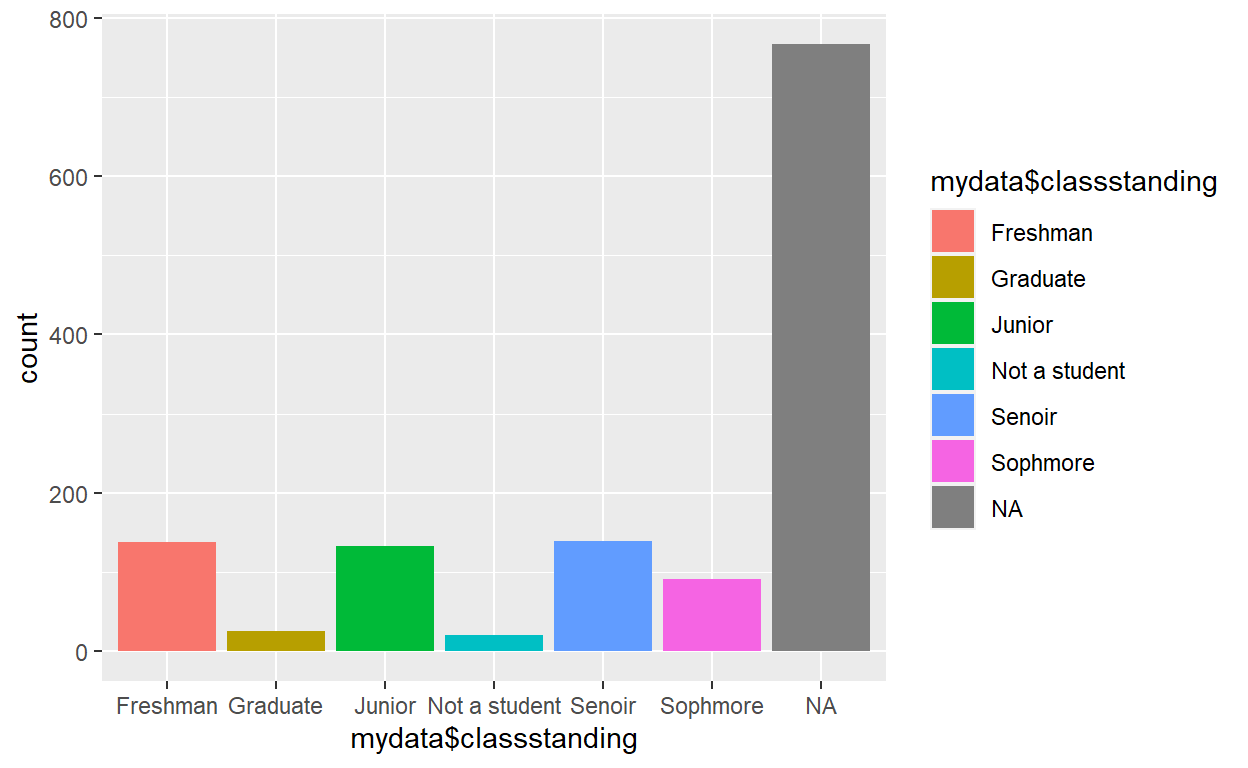
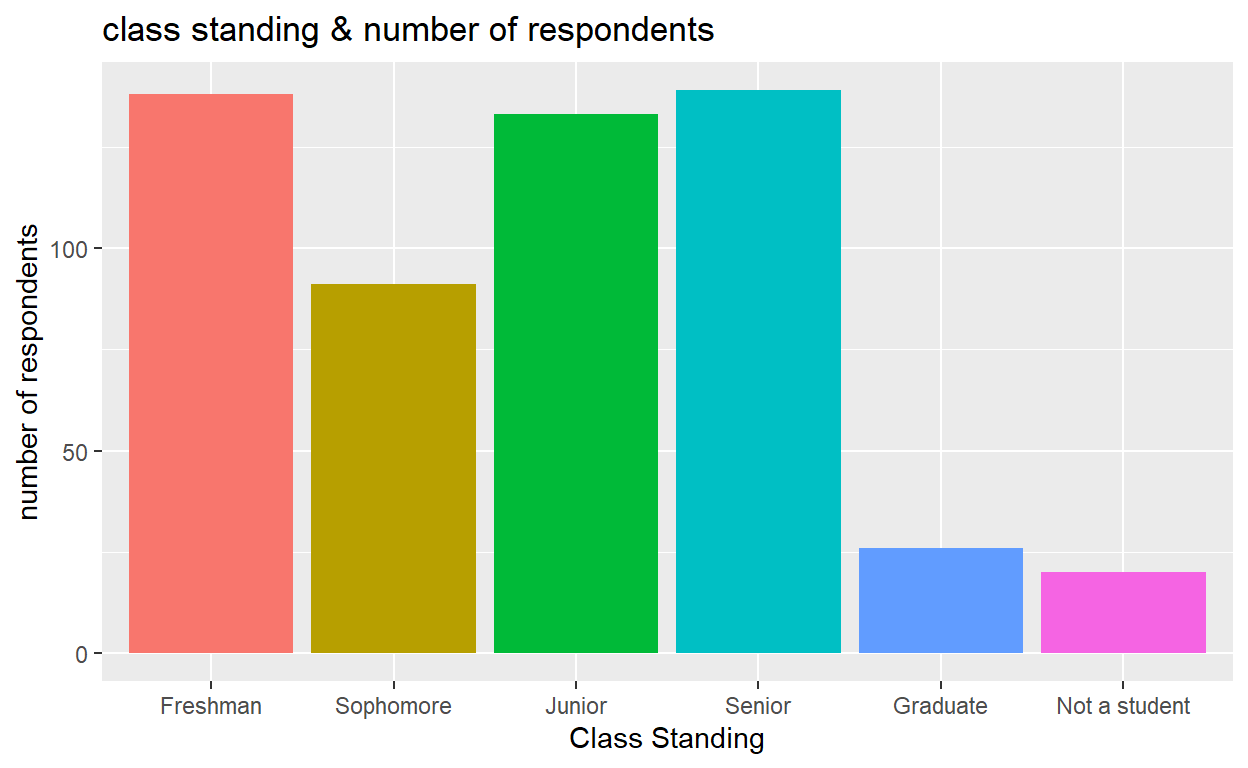
3rd commit

diff --git a/_posts/2021-04-18-cfhl-analysis/cfhl-analysis.html b/_posts/2021-04-18-cfhl-analysis/cfhl-analysis.html
@@ -110,12 +110,12 @@ code span.wa { color: #5e5e5e; font-style: italic; } /* Warning */
   <!--radix_placeholder_rmarkdown_metadata-->
 
   <script type="text/json" id="radix-rmarkdown-metadata">
-  {"type":"list","attributes":{"names":{"type":"character","attributes":{},"value":["title","description","author","date","output"]}},"value":[{"type":"character","attributes":{},"value":["CFHL-Analysis"]},{"type":"character","attributes":{},"value":["Exploratory Data Analysis on CFHL project.\n"]},{"type":"list","attributes":{},"value":[{"type":"list","attributes":{"names":{"type":"character","attributes":{},"value":["name","url"]}},"value":[{"type":"character","attributes":{},"value":["Demetrio Munoz"]},{"type":"list","attributes":{"names":{"type":"character","attributes":{},"value":[]}},"value":[]}]}]},{"type":"character","attributes":{},"value":["04-18-2021"]},{"type":"list","attributes":{"names":{"type":"character","attributes":{},"value":["distill::distill_article"]}},"value":[{"type":"list","attributes":{"names":{"type":"character","attributes":{},"value":["self_contained"]}},"value":[{"type":"logical","attributes":{},"value":[false]}]}]}]}
+  {"type":"list","attributes":{"names":{"type":"character","attributes":{},"value":["title","description","author","date","output"]}},"value":[{"type":"character","attributes":{},"value":["CFHL-Analysis"]},{"type":"character","attributes":{},"value":["Exploratory Data Analysis on CFHL project.\n"]},{"type":"list","attributes":{},"value":[{"type":"list","attributes":{"names":{"type":"character","attributes":{},"value":["name"]}},"value":[{"type":"character","attributes":{},"value":["Demetrio Munoz"]}]}]},{"type":"character","attributes":{},"value":["04-18-2021"]},{"type":"list","attributes":{"names":{"type":"character","attributes":{},"value":["distill::distill_article"]}},"value":[{"type":"list","attributes":{"names":{"type":"character","attributes":{},"value":["self_contained"]}},"value":[{"type":"logical","attributes":{},"value":[false]}]}]}]}
   </script>
   <!--/radix_placeholder_rmarkdown_metadata-->
   
   <script type="text/json" id="radix-resource-manifest">
-  {"type":"character","attributes":{},"value":["cfhl-analysis_files/anchor-4.2.2/anchor.min.js","cfhl-analysis_files/bowser-1.9.3/bowser.min.js","cfhl-analysis_files/distill-2.2.21/template.v2.js","cfhl-analysis_files/figure-html5/unnamed-chunk-4-1.png","cfhl-analysis_files/figure-html5/unnamed-chunk-5-1.png","cfhl-analysis_files/figure-html5/unnamed-chunk-6-1.png","cfhl-analysis_files/header-attrs-2.7/header-attrs.js","cfhl-analysis_files/jquery-1.11.3/jquery.min.js","cfhl-analysis_files/popper-2.6.0/popper.min.js","cfhl-analysis_files/tippy-6.2.7/tippy-bundle.umd.min.js","cfhl-analysis_files/tippy-6.2.7/tippy-light-border.css","cfhl-analysis_files/tippy-6.2.7/tippy.css","cfhl-analysis_files/tippy-6.2.7/tippy.umd.min.js","cfhl-analysis_files/webcomponents-2.0.0/webcomponents.js"]}
+  {"type":"character","attributes":{},"value":["cfhl-analysis_files/anchor-4.2.2/anchor.min.js","cfhl-analysis_files/bowser-1.9.3/bowser.min.js","cfhl-analysis_files/distill-2.2.21/template.v2.js","cfhl-analysis_files/figure-html5/unnamed-chunk-4-1.png","cfhl-analysis_files/figure-html5/unnamed-chunk-5-1.png","cfhl-analysis_files/figure-html5/unnamed-chunk-6-1.png","cfhl-analysis_files/figure-html5/unnamed-chunk-9-1.png","cfhl-analysis_files/header-attrs-2.7/header-attrs.js","cfhl-analysis_files/jquery-1.11.3/jquery.min.js","cfhl-analysis_files/popper-2.6.0/popper.min.js","cfhl-analysis_files/tippy-6.2.7/tippy-bundle.umd.min.js","cfhl-analysis_files/tippy-6.2.7/tippy-light-border.css","cfhl-analysis_files/tippy-6.2.7/tippy.css","cfhl-analysis_files/tippy-6.2.7/tippy.umd.min.js","cfhl-analysis_files/webcomponents-2.0.0/webcomponents.js"]}
   </script>
   <!--radix_placeholder_navigation_in_header-->
   <!--/radix_placeholder_navigation_in_header-->
@@ -1454,7 +1454,7 @@ code span.wa { color: #5e5e5e; font-style: italic; } /* Warning */
 <!--radix_placeholder_front_matter-->
 
 <script id="distill-front-matter" type="text/json">
-{"title":"CFHL-Analysis","description":"Exploratory Data Analysis on CFHL project.","authors":[{"author":"Demetrio Munoz","authorURL":{},"affiliation":"&nbsp;","affiliationURL":"#","orcidID":""}],"publishedDate":"2021-04-18T00:00:00.000-07:00","citationText":"Munoz, 2021"}
+{"title":"CFHL-Analysis","description":"Exploratory Data Analysis on CFHL project.","authors":[{"author":"Demetrio Munoz","authorURL":"#","affiliation":"&nbsp;","affiliationURL":"#","orcidID":""}],"publishedDate":"2021-04-18T00:00:00.000-07:00","citationText":"Munoz, 2021"}
 </script>
 
 <!--/radix_placeholder_front_matter-->
@@ -1471,67 +1471,86 @@ code span.wa { color: #5e5e5e; font-style: italic; } /* Warning */
 </div>
 
 <div class="d-byline">
-  Demetrio Munoz true 
+  
+  Demetrio Munoz
   
 <br/>04-18-2021
 </div>
 
 <div class="d-article">
-<h1 id="install-pre-requiste-packages">Install pre-requiste packages</h1>
-<pre><code>install.packages(&quot;stats&quot;)
-install.packages(&quot;dplyr&quot;)
-install.packages(&quot;lattice&quot;)</code></pre>
-<h1 id="load-required-libraries">Load Required Libraries</h1>
+<h1 id="load-required-libraries">Load required libraries</h1>
 <div class="layout-chunk" data-layout="l-body">
 
 </div>
-<p>Loading data, loading data onto mydata object Note the Survery data needs to be imported into R-Studio</p>
+<h1 id="loading-data-loading-data-onto-mydata-object">Loading data, loading data onto mydata object</h1>
 <div class="layout-chunk" data-layout="l-body">
 
 </div>
 <h1 id="introduction">Introduction</h1>
-<p>The information I am going to do an EDA on comes from a project called CFHL, conducted by the CHC data analytic team from California state university Chico .In this EDA I will be working with the data set called survey_raw and I will be looking at the survey data responses from the participants who took the survey. The data within the survey is based on classes that were offered at different california state universities. The data within this data set has been gathered for about 1 or 2 years.</p>
+<p>The data in this Exploratory Analysis comes from a project called CalFresh Healthy Living (CFHL), conducted by the Center for Healthy Communities (CHC) Research and Evaluation team at California State University Chico. Data collection from a self report survey started last summer and is ongoing. The data survey contains information two type of nutrition nutrition classes. One of the type of nutrition class was single session classes, the other type of nutrition class is series based classes. These two type of nutrition classes had different questions to collect different kind of information from the participants. For one time classes the questions asked about how confident the student is in their ability to recall the knowledge and skills that the student learned in the class. Classes mostly asked about the frequency with which the student are particular foods/did specific health behaviors. The series classes also, asked about certain questions to get feedback on the content of the class to test how much did the student learned in the series classes. The data that was collected pre and post series classes only, will show is the course contributes to some changes in knowledge or health behavior. The other interesting data that was collected from both nutrition classes was demographics, food security,education, eating/nutrition knowledge and behaviors, food insecurity, and feedback on the class. This report examines the demographic of students, specifically their class standing, and the number of classes attended to see if there is a relationship between them.</p>
 <h1 id="data-summarization">Data Summarization</h1>
-<p>Univariate Description:1st, I’m going to analyze the difference between class_standings who participated in the survey.</p>
+<p>First, I’m going examine the class standings who participated in the survey.</p>
 <div class="layout-chunk" data-layout="l-body">
 <pre><code>
-     Freshman      Graduate        Junior Not a student        Senoir 
-          138            26           133            20           139 
-     Sophmore 
-           91 </code></pre>
-<pre><code>[1] &quot;factor&quot;</code></pre>
+     Freshman     Sophomore        Junior        Senior      Graduate 
+          138            91           133           139            26 
+Not a student 
+           20 </code></pre>
 </div>
 <p>Based on this data table the top three class standings that participated in this survey were Senoir at 139 participants, Freshman at 138, and Junior at 133 participants</p>
 <h1 id="graph-displaying-top-3-class-standing-participation">Graph displaying top 3 class standing participation</h1>
 <div class="layout-chunk" data-layout="l-body">
 <p><img src="cfhl-analysis_files/figure-html5/unnamed-chunk-4-1.png" width="624" /></p>
 </div>
-<p>This bar graph Vizualizes what the data table showed about the top three mydata$classstanding participation participation .</p>
-<h1 id="ndim-going-to-analyze-the-number-of-participants-in-quant_classes">2nd,I’m going to analyze the number of participants in quant_classes</h1>
-<p>The second data set I am going to look into is about quant_classes. The quant_classes has 1-6 choices so the participant can pick if they participate in 1 quant classes- 6 quant classes.</p>
+<p>This bar graph displays the class standing of the students who participated in the survey. This graph illustrates that the top three class standing that took a part of this survey came from Freshman, Junior, Senior,the two lowest class standing that participated in this survey were Graduate, Not a Student.</p>
+<h1 id="second-i-am-going-to-explore-how-many-classes-in-the-series-students-attended.">Second, I am going to explore how many classes in the series students attended.</h1>
+<p>The second measure I am going to look into is about number of classes attended. The question has 1-6 choices so the participant can pick if they participate in 1 number of classes through 6 number of classes.</p>
 <div class="layout-chunk" data-layout="l-body">
 <pre><code>
  1  2  3  4  5  6 
 45 12 85 31  9  6 </code></pre>
 </div>
-<p>This table shows that 45 people attended at least one quant_class,took the survey. The quant_class that was taken the most was 3 quant_classes with a total of 85 people. The third most taken quant_classes was 4 with a total of 31 participants.</p>
-<h1 id="this-is-a-side-by-side-graph-showing-the-relation-between-quant_classesclass-standing.">This is a side by side graph showing the relation between quant_classes,class standing.</h1>
-<p>This bar graph shows the distribution of quant classes, class standing is fill to shows the amount of the participants class standing. Based on this the graph one quant class had the most variety of class standing participants, contained the the most senior class standing participants.</p>
+<p>This table shows that that every number of classes had more than 6 participants. Minimum is 6 participants,the participants went to only 6 classes. The number of classes that was taken the most was number 3 with a total of 85 participants saying they went to only 3 classes. The third most taken number of classes was 1 number of classes with a total of 45 participants. The average number of classes taken was 2.8.</p>
+<h1 id="histogram-displays-number-of-classes-participants">Histogram displays number of classes participants</h1>
+<p>The following histogram displays the number of participants in each number classes, from the graph it is visible that the number of classes that had the most participants was 3 number of classes. From the graph it is visible that every number of classes had at least 3 participants.</p>
 <div class="layout-chunk" data-layout="l-body">
 <p><img src="cfhl-analysis_files/figure-html5/unnamed-chunk-6-1.png" width="624" /></p>
 </div>
-<h1 id="these-are-the-percent-proportions-generated-for-showing-the-relation-between-class_standing-quant_classes">These are the percent proportions generated for showing the relation between class_standing &amp; quant_classes</h1>
+<div class="layout-chunk" data-layout="l-body">
+<pre><code>[1] 1</code></pre>
+</div>
+<h1 id="table-shows-class-standing-and-number-of-classes">Table shows class standing and number of classes</h1>
+The following table that compares class standing and number of classes. The table shows that graduates,and non-students had no data on the number of classes they took.
 <div class="layout-chunk" data-layout="l-body">
 <pre><code>               
-                    1     2     3     4     5     6
-  Freshman      0.118 0.118 0.294 0.235 0.176 0.059
-  Graduate                                         
-  Junior        0.278 0.111 0.278 0.222 0.056 0.056
-  Not a student                                    
-  Senior        0.700 0.000 0.000 0.200 0.000 0.100
-  Sophomore     0.625 0.000 0.000 0.250 0.125 0.000</code></pre>
+                1 2 3 4 5 6
+  Freshman      2 2 5 4 3 1
+  Sophomore     5 0 0 2 1 0
+  Junior        5 2 5 4 1 1
+  Senior        7 0 0 2 0 1
+  Graduate      0 0 0 0 0 0
+  Not a student 0 0 0 0 0 0</code></pre>
 </div>
-<p>This data shows that Freshman, distrubtion through quant classes in percentages they have a lowest percentage in 6 quant classes, highest 1 quant class, juniors share this same reltionship with freshman. Senior distribution classes is its only 10 percent on 6 quant classws, highest on 1 quant classes, Sopmore only attended 1 quant class with a 62 percent, attended no 6 quant class. This illustrates that 1 quant class had the highest percent of class standing participants. This could be do to many different reasons.</p>
+<h1 id="distribution-of-number-of-classes-attended-by-class-standing">Distribution of number of classes attended by class standing</h1>
+<p>The graph shows that their are less senior participants in number in classes, the data makes it visible that every number of classes had more than three participants from the different class standings.Sophomore had highest variability of the variable number of classes. Another insight that this graph show is the difference between freshman and senior participation. It is clear that the freshman class standing participated in all the different number of classes while senior had a gap at 2-3 number of classes. The freshman class standing overall had a greater participation compared to seniors.</p>
+<div class="layout-chunk" data-layout="l-body">
+<p><img src="cfhl-analysis_files/figure-html5/unnamed-chunk-9-1.png" width="624" /></p>
+</div>
+The average number of classes is shown below grouped by class standing. The table shows that freshman had the highest average in number of classes with 3.41, Juniors had a 2.8, sophomore had a 2.2, the lowest was seniors with a 2.1 participation average.
+<div class="layout-chunk" data-layout="l-body">
+<pre><code># A tibble: 7 x 2
+  classstanding_order ave.classes
+  &lt;fct&gt;                     &lt;dbl&gt;
+1 Freshman                   3.41
+2 Sophomore                  2.25
+3 Junior                     2.83
+4 Senior                     2.1 
+5 Graduate                 NaN   
+6 Not a student            NaN   
+7 &lt;NA&gt;                       2.82</code></pre>
+</div>
+<h1 id="conclusion">Conclusion:</h1>
+<p>Based on the EDA I have conducted the one advice I have for the CHC is that may get rid of the option I have realized that one thing that CHC can do differently from the EDA information</p>
 <div class="sourceCode" id="cb6"><pre class="sourceCode r distill-force-highlighting-css"><code class="sourceCode r"></code></pre></div>
 <!--radix_placeholder_article_footer-->
 <!--/radix_placeholder_article_footer-->

diff --git a/docs/posts/2021-04-18-cfhl-analysis/index.html b/docs/posts/2021-04-18-cfhl-analysis/index.html
@@ -111,12 +111,12 @@ code span.wa { color: #5e5e5e; font-style: italic; } /* Warning */
   <!--radix_placeholder_rmarkdown_metadata-->
 
 <script type="text/json" id="radix-rmarkdown-metadata">
-{"type":"list","attributes":{"names":{"type":"character","attributes":{},"value":["title","description","author","date","output"]}},"value":[{"type":"character","attributes":{},"value":["CFHL-Analysis"]},{"type":"character","attributes":{},"value":["Exploratory Data Analysis on CFHL project."]},{"type":"list","attributes":{},"value":[{"type":"list","attributes":{"names":{"type":"character","attributes":{},"value":["name","url"]}},"value":[{"type":"character","attributes":{},"value":["Demetrio Munoz"]},{"type":"list","attributes":{"names":{"type":"character","attributes":{},"value":[]}},"value":[]}]}]},{"type":"character","attributes":{},"value":["04-18-2021"]},{"type":"list","attributes":{"names":{"type":"character","attributes":{},"value":["distill::distill_article"]}},"value":[{"type":"list","attributes":{"names":{"type":"character","attributes":{},"value":["self_contained"]}},"value":[{"type":"logical","attributes":{},"value":[false]}]}]}]}
+{"type":"list","attributes":{"names":{"type":"character","attributes":{},"value":["title","description","author","date","output"]}},"value":[{"type":"character","attributes":{},"value":["CFHL-Analysis"]},{"type":"character","attributes":{},"value":["Exploratory Data Analysis on CFHL project."]},{"type":"list","attributes":{},"value":[{"type":"list","attributes":{"names":{"type":"character","attributes":{},"value":["name"]}},"value":[{"type":"character","attributes":{},"value":["Demetrio Munoz"]}]}]},{"type":"character","attributes":{},"value":["04-18-2021"]},{"type":"list","attributes":{"names":{"type":"character","attributes":{},"value":["distill::distill_article"]}},"value":[{"type":"list","attributes":{"names":{"type":"character","attributes":{},"value":["self_contained"]}},"value":[{"type":"logical","attributes":{},"value":[false]}]}]}]}
 </script>
 <!--/radix_placeholder_rmarkdown_metadata-->
   
   <script type="text/json" id="radix-resource-manifest">
-  {"type":"character","attributes":{},"value":["cfhl-analysis_files/anchor-4.2.2/anchor.min.js","cfhl-analysis_files/bowser-1.9.3/bowser.min.js","cfhl-analysis_files/distill-2.2.21/template.v2.js","cfhl-analysis_files/figure-html5/unnamed-chunk-4-1.png","cfhl-analysis_files/figure-html5/unnamed-chunk-5-1.png","cfhl-analysis_files/figure-html5/unnamed-chunk-6-1.png","cfhl-analysis_files/header-attrs-2.7/header-attrs.js","cfhl-analysis_files/jquery-1.11.3/jquery.min.js","cfhl-analysis_files/popper-2.6.0/popper.min.js","cfhl-analysis_files/tippy-6.2.7/tippy-bundle.umd.min.js","cfhl-analysis_files/tippy-6.2.7/tippy-light-border.css","cfhl-analysis_files/tippy-6.2.7/tippy.css","cfhl-analysis_files/tippy-6.2.7/tippy.umd.min.js","cfhl-analysis_files/webcomponents-2.0.0/webcomponents.js"]}
+  {"type":"character","attributes":{},"value":["cfhl-analysis_files/anchor-4.2.2/anchor.min.js","cfhl-analysis_files/bowser-1.9.3/bowser.min.js","cfhl-analysis_files/distill-2.2.21/template.v2.js","cfhl-analysis_files/figure-html5/unnamed-chunk-4-1.png","cfhl-analysis_files/figure-html5/unnamed-chunk-5-1.png","cfhl-analysis_files/figure-html5/unnamed-chunk-6-1.png","cfhl-analysis_files/figure-html5/unnamed-chunk-9-1.png","cfhl-analysis_files/header-attrs-2.7/header-attrs.js","cfhl-analysis_files/jquery-1.11.3/jquery.min.js","cfhl-analysis_files/popper-2.6.0/popper.min.js","cfhl-analysis_files/tippy-6.2.7/tippy-bundle.umd.min.js","cfhl-analysis_files/tippy-6.2.7/tippy-light-border.css","cfhl-analysis_files/tippy-6.2.7/tippy.css","cfhl-analysis_files/tippy-6.2.7/tippy.umd.min.js","cfhl-analysis_files/webcomponents-2.0.0/webcomponents.js"]}
   </script>
   <!--radix_placeholder_navigation_in_header-->
 <meta name="distill:offset" content="../.."/>
@@ -2061,7 +2061,7 @@ document.addEventListener('DOMContentLoaded', function() {
 <!--radix_placeholder_front_matter-->
 
 <script id="distill-front-matter" type="text/json">
-{"title":"CFHL-Analysis","description":"Exploratory Data Analysis on CFHL project.","authors":[{"author":"Demetrio Munoz","authorURL":{},"affiliation":"&nbsp;","affiliationURL":"#","orcidID":""}],"publishedDate":"2021-04-18T00:00:00.000-07:00","citationText":"Munoz, 2021"}
+{"title":"CFHL-Analysis","description":"Exploratory Data Analysis on CFHL project.","authors":[{"author":"Demetrio Munoz","authorURL":"#","affiliation":"&nbsp;","affiliationURL":"#","orcidID":""}],"publishedDate":"2021-04-18T00:00:00.000-07:00","citationText":"Munoz, 2021"}
 </script>
 
 <!--/radix_placeholder_front_matter-->
@@ -2091,67 +2091,86 @@ document.addEventListener('DOMContentLoaded', function() {
 </div>
 
 <div class="d-byline">
-  Demetrio Munoz true 
+  
+  Demetrio Munoz
   
 <br/>04-18-2021
 </div>
 
 <div class="d-article">
-<h1 id="install-pre-requiste-packages">Install pre-requiste packages</h1>
-<pre><code>install.packages(&quot;stats&quot;)
-install.packages(&quot;dplyr&quot;)
-install.packages(&quot;lattice&quot;)</code></pre>
-<h1 id="load-required-libraries">Load Required Libraries</h1>
+<h1 id="load-required-libraries">Load required libraries</h1>
 <div class="layout-chunk" data-layout="l-body">
 
 </div>
-<p>Loading data, loading data onto mydata object Note the Survery data needs to be imported into R-Studio</p>
+<h1 id="loading-data-loading-data-onto-mydata-object">Loading data, loading data onto mydata object</h1>
 <div class="layout-chunk" data-layout="l-body">
 
 </div>
 <h1 id="introduction">Introduction</h1>
-<p>The information I am going to do an EDA on comes from a project called CFHL, conducted by the CHC data analytic team from California state university Chico .In this EDA I will be working with the data set called survey_raw and I will be looking at the survey data responses from the participants who took the survey. The data within the survey is based on classes that were offered at different california state universities. The data within this data set has been gathered for about 1 or 2 years.</p>
+<p>The data in this Exploratory Analysis comes from a project called CalFresh Healthy Living (CFHL), conducted by the Center for Healthy Communities (CHC) Research and Evaluation team at California State University Chico. Data collection from a self report survey started last summer and is ongoing. The data survey contains information two type of nutrition nutrition classes. One of the type of nutrition class was single session classes, the other type of nutrition class is series based classes. These two type of nutrition classes had different questions to collect different kind of information from the participants. For one time classes the questions asked about how confident the student is in their ability to recall the knowledge and skills that the student learned in the class. Classes mostly asked about the frequency with which the student are particular foods/did specific health behaviors. The series classes also, asked about certain questions to get feedback on the content of the class to test how much did the student learned in the series classes. The data that was collected pre and post series classes only, will show is the course contributes to some changes in knowledge or health behavior. The other interesting data that was collected from both nutrition classes was demographics, food security,education, eating/nutrition knowledge and behaviors, food insecurity, and feedback on the class. This report examines the demographic of students, specifically their class standing, and the number of classes attended to see if there is a relationship between them.</p>
 <h1 id="data-summarization">Data Summarization</h1>
-<p>Univariate Description:1st, I’m going to analyze the difference between class_standings who participated in the survey.</p>
+<p>First, I’m going examine the class standings who participated in the survey.</p>
 <div class="layout-chunk" data-layout="l-body">
 <pre><code>
-     Freshman      Graduate        Junior Not a student        Senoir 
-          138            26           133            20           139 
-     Sophmore 
-           91 </code></pre>
-<pre><code>[1] &quot;factor&quot;</code></pre>
+     Freshman     Sophomore        Junior        Senior      Graduate 
+          138            91           133           139            26 
+Not a student 
+           20 </code></pre>
 </div>
 <p>Based on this data table the top three class standings that participated in this survey were Senoir at 139 participants, Freshman at 138, and Junior at 133 participants</p>
 <h1 id="graph-displaying-top-3-class-standing-participation">Graph displaying top 3 class standing participation</h1>
 <div class="layout-chunk" data-layout="l-body">
 <p><img src="cfhl-analysis_files/figure-html5/unnamed-chunk-4-1.png" width="624" /></p>
 </div>
-<p>This bar graph Vizualizes what the data table showed about the top three mydata$classstanding participation participation .</p>
-<h1 id="ndim-going-to-analyze-the-number-of-participants-in-quant_classes">2nd,I’m going to analyze the number of participants in quant_classes</h1>
-<p>The second data set I am going to look into is about quant_classes. The quant_classes has 1-6 choices so the participant can pick if they participate in 1 quant classes- 6 quant classes.</p>
+<p>This bar graph displays the class standing of the students who participated in the survey. This graph illustrates that the top three class standing that took a part of this survey came from Freshman, Junior, Senior,the two lowest class standing that participated in this survey were Graduate, Not a Student.</p>
+<h1 id="second-i-am-going-to-explore-how-many-classes-in-the-series-students-attended.">Second, I am going to explore how many classes in the series students attended.</h1>
+<p>The second measure I am going to look into is about number of classes attended. The question has 1-6 choices so the participant can pick if they participate in 1 number of classes through 6 number of classes.</p>
 <div class="layout-chunk" data-layout="l-body">
 <pre><code>
  1  2  3  4  5  6 
 45 12 85 31  9  6 </code></pre>
 </div>
-<p>This table shows that 45 people attended at least one quant_class,took the survey. The quant_class that was taken the most was 3 quant_classes with a total of 85 people. The third most taken quant_classes was 4 with a total of 31 participants.</p>
-<h1 id="this-is-a-side-by-side-graph-showing-the-relation-between-quant_classesclass-standing.">This is a side by side graph showing the relation between quant_classes,class standing.</h1>
-<p>This bar graph shows the distribution of quant classes, class standing is fill to shows the amount of the participants class standing. Based on this the graph one quant class had the most variety of class standing participants, contained the the most senior class standing participants.</p>
+<p>This table shows that that every number of classes had more than 6 participants. Minimum is 6 participants,the participants went to only 6 classes. The number of classes that was taken the most was number 3 with a total of 85 participants saying they went to only 3 classes. The third most taken number of classes was 1 number of classes with a total of 45 participants. The average number of classes taken was 2.8.</p>
+<h1 id="histogram-displays-number-of-classes-participants">Histogram displays number of classes participants</h1>
+<p>The following histogram displays the number of participants in each number classes, from the graph it is visible that the number of classes that had the most participants was 3 number of classes. From the graph it is visible that every number of classes had at least 3 participants.</p>
 <div class="layout-chunk" data-layout="l-body">
 <p><img src="cfhl-analysis_files/figure-html5/unnamed-chunk-6-1.png" width="624" /></p>
 </div>
-<h1 id="these-are-the-percent-proportions-generated-for-showing-the-relation-between-class_standing-quant_classes">These are the percent proportions generated for showing the relation between class_standing &amp; quant_classes</h1>
+<div class="layout-chunk" data-layout="l-body">
+<pre><code>[1] 1</code></pre>
+</div>
+<h1 id="table-shows-class-standing-and-number-of-classes">Table shows class standing and number of classes</h1>
+The following table that compares class standing and number of classes. The table shows that graduates,and non-students had no data on the number of classes they took.
 <div class="layout-chunk" data-layout="l-body">
 <pre><code>               
-                    1     2     3     4     5     6
-  Freshman      0.118 0.118 0.294 0.235 0.176 0.059
-  Graduate                                         
-  Junior        0.278 0.111 0.278 0.222 0.056 0.056
-  Not a student                                    
-  Senior        0.700 0.000 0.000 0.200 0.000 0.100
-  Sophomore     0.625 0.000 0.000 0.250 0.125 0.000</code></pre>
+                1 2 3 4 5 6
+  Freshman      2 2 5 4 3 1
+  Sophomore     5 0 0 2 1 0
+  Junior        5 2 5 4 1 1
+  Senior        7 0 0 2 0 1
+  Graduate      0 0 0 0 0 0
+  Not a student 0 0 0 0 0 0</code></pre>
 </div>
-<p>This data shows that Freshman, distrubtion through quant classes in percentages they have a lowest percentage in 6 quant classes, highest 1 quant class, juniors share this same reltionship with freshman. Senior distribution classes is its only 10 percent on 6 quant classws, highest on 1 quant classes, Sopmore only attended 1 quant class with a 62 percent, attended no 6 quant class. This illustrates that 1 quant class had the highest percent of class standing participants. This could be do to many different reasons.</p>
+<h1 id="distribution-of-number-of-classes-attended-by-class-standing">Distribution of number of classes attended by class standing</h1>
+<p>The graph shows that their are less senior participants in number in classes, the data makes it visible that every number of classes had more than three participants from the different class standings.Sophomore had highest variability of the variable number of classes. Another insight that this graph show is the difference between freshman and senior participation. It is clear that the freshman class standing participated in all the different number of classes while senior had a gap at 2-3 number of classes. The freshman class standing overall had a greater participation compared to seniors.</p>
+<div class="layout-chunk" data-layout="l-body">
+<p><img src="cfhl-analysis_files/figure-html5/unnamed-chunk-9-1.png" width="624" /></p>
+</div>
+The average number of classes is shown below grouped by class standing. The table shows that freshman had the highest average in number of classes with 3.41, Juniors had a 2.8, sophomore had a 2.2, the lowest was seniors with a 2.1 participation average.
+<div class="layout-chunk" data-layout="l-body">
+<pre><code># A tibble: 7 x 2
+  classstanding_order ave.classes
+  &lt;fct&gt;                     &lt;dbl&gt;
+1 Freshman                   3.41
+2 Sophomore                  2.25
+3 Junior                     2.83
+4 Senior                     2.1 
+5 Graduate                 NaN   
+6 Not a student            NaN   
+7 &lt;NA&gt;                       2.82</code></pre>
+</div>
+<h1 id="conclusion">Conclusion:</h1>
+<p>Based on the EDA I have conducted the one advice I have for the CHC is that may get rid of the option I have realized that one thing that CHC can do differently from the EDA information</p>
 <div class="sourceCode" id="cb6"><pre class="sourceCode r distill-force-highlighting-css"><code class="sourceCode r"></code></pre></div>
 <!--radix_placeholder_article_footer-->
 <!--/radix_placeholder_article_footer-->
